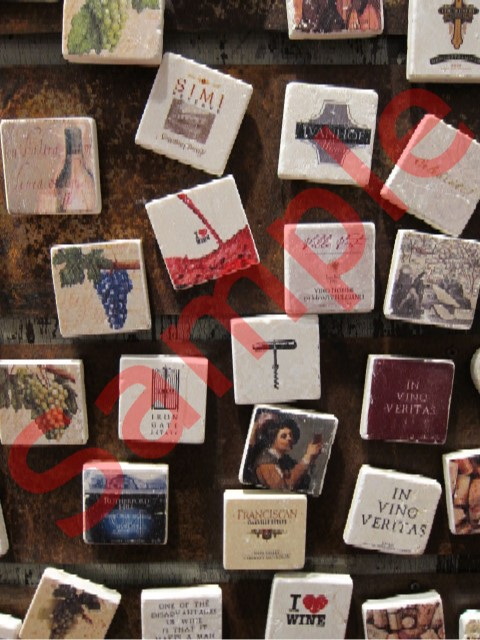
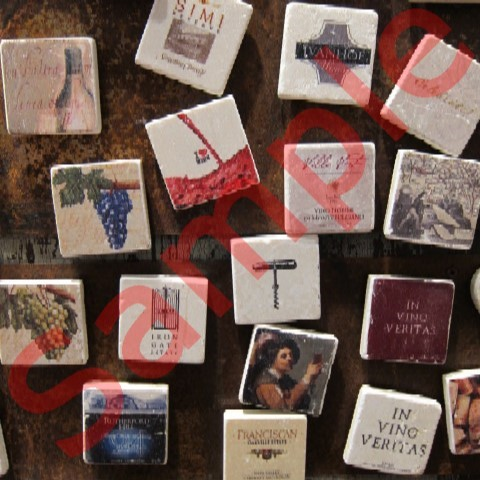
v 1.6.2 - Adjusted "Coasters" and sample image in product page

diff --git a/testsitecodedbyme/static/scripts/conditional_menu.js b/testsitecodedbyme/static/scripts/conditional_menu.js
@@ -17,6 +17,7 @@ function updateProductImage() {
     
     // Define the image source based on the selected product type
     var imageMap = {
+        "Coasters": "static/imgs/product_types/coaster.jpg",
         "WineStopper": "static/imgs/product_types/bookend10x10x10cm.jpg",
         "Magnet": "static/imgs/product_types/magnet.jpg",
         "Paperweight": "static/imgs/product_types/paperweight.jpg",
@@ -28,17 +29,13 @@ function updateProductImage() {
     // Get the image element
     var productImage = document.getElementById("product_image");
 
-    // Check if the selected product type is "Coasters"
-    if (selectedProductType === "Coasters") {
-        // Hide the image if "Coasters" is selected
-        productImage.style.display = "none";
+    
+    // Show the image if a different product type is selected
+    if (imageMap[selectedProductType]) {
+        productImage.src = imageMap[selectedProductType];
+        productImage.style.display = "block"; // Make the image visible
     } else {
-        // Show the image if a different product type is selected
-        if (imageMap[selectedProductType]) {
-            productImage.src = imageMap[selectedProductType];
-            productImage.style.display = "block"; // Make the image visible
-        } else {
-            productImage.style.display = "none"; // Hide the image if no matching product type
-        }
+        productImage.style.display = "none"; // Hide the image if no matching product type
     }
+    
 }

diff --git a/testsitecodedbyme/templates/product.html b/testsitecodedbyme/templates/product.html
@@ -82,7 +82,7 @@
                         </select>
 
                         {% if chosen_product_category == "marble" %}
-                        <img id="product_image" src="/static/images/default_image.jpg" alt="Product Image" class="img-fluid mt-3" style="display: none;">
+                        <img id="product_image" src="static/imgs/product_types/coaster.jpg" alt="Product Image" class="img-fluid mt-3" style="display: block;">
                         {% endif %}
 
                         {% if chosen_product_category == "terracotta" %}

diff --git a/testsitecodedbyme/sve.py b/testsitecodedbyme/sve.py
@@ -34,7 +34,7 @@ class Products(db.Model):
     name = db.Column(db.String(255))
     category = db.Column(db.String(255))
     image_url = db.Column(db.String(255))
-""" 
+ 
 #---- ERROR HANDLING ----
 
 # Error handler for client error 404
@@ -52,7 +52,7 @@ def internal_server_error(e):
 # Error handler for all other errors
 @app.errorhandler(Exception)
 def handle_all_errors(e):
-    return render_template('error.html', error_message='An unexpected error occurred'), 500 """
+    return render_template('error.html', error_message='An unexpected error occurred'), 500
 
 
 #---- ROUTING AND PAGES ----
